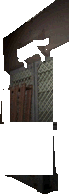
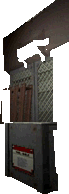
wip(r41-masken36): NB3 Bilder - Boegen der 25 geaenderten Cuts (M_bilder/NB3/NB3_bogen_*), Uebersichtsbilder neu, Restliste NB3 (M_bilder/NB3_rest), Trennwand-Bogen NB3_M1_30A0_trennwand.png
Gezeichnete Punkte der 25 Cuts 306 325 -> 332 967 (+26 642, 0 weggefallen).

Changed region(s): [[0.058, 0.6186, 0.7826, 0.9278], [0.058, 0.433, 0.1159, 0.4639]]

diff --git a/re15_port/tools/maske/bilder_kacheln_r41.py b/re15_port/tools/maske/bilder_kacheln_r41.py
@@ -94,7 +94,7 @@ def main():
             n = tint(d_neu & d_alt, (1, 0.1, 0.9), b)
             n = tint(zu, (0.1, 1, 0.2), n)
             n = tint(weg, (1, 0.2, 0.1), n)
-            sheet = Image.new("RGB", (320 * 3 + 16, 2 * 240 + 30), (20, 20, 20))
+            sheet = Image.new("RGB", (320 * 3 + 16, 240 + 16), (20, 20, 20))
             for k, im in enumerate((b, v, n)):
                 sheet.paste(Image.fromarray((im * 255).astype(np.uint8)), (k * 328, 14))
             # Teilrechtecke: Umriss, Farbe nach Tiefe (blau nah .. rot fern)
